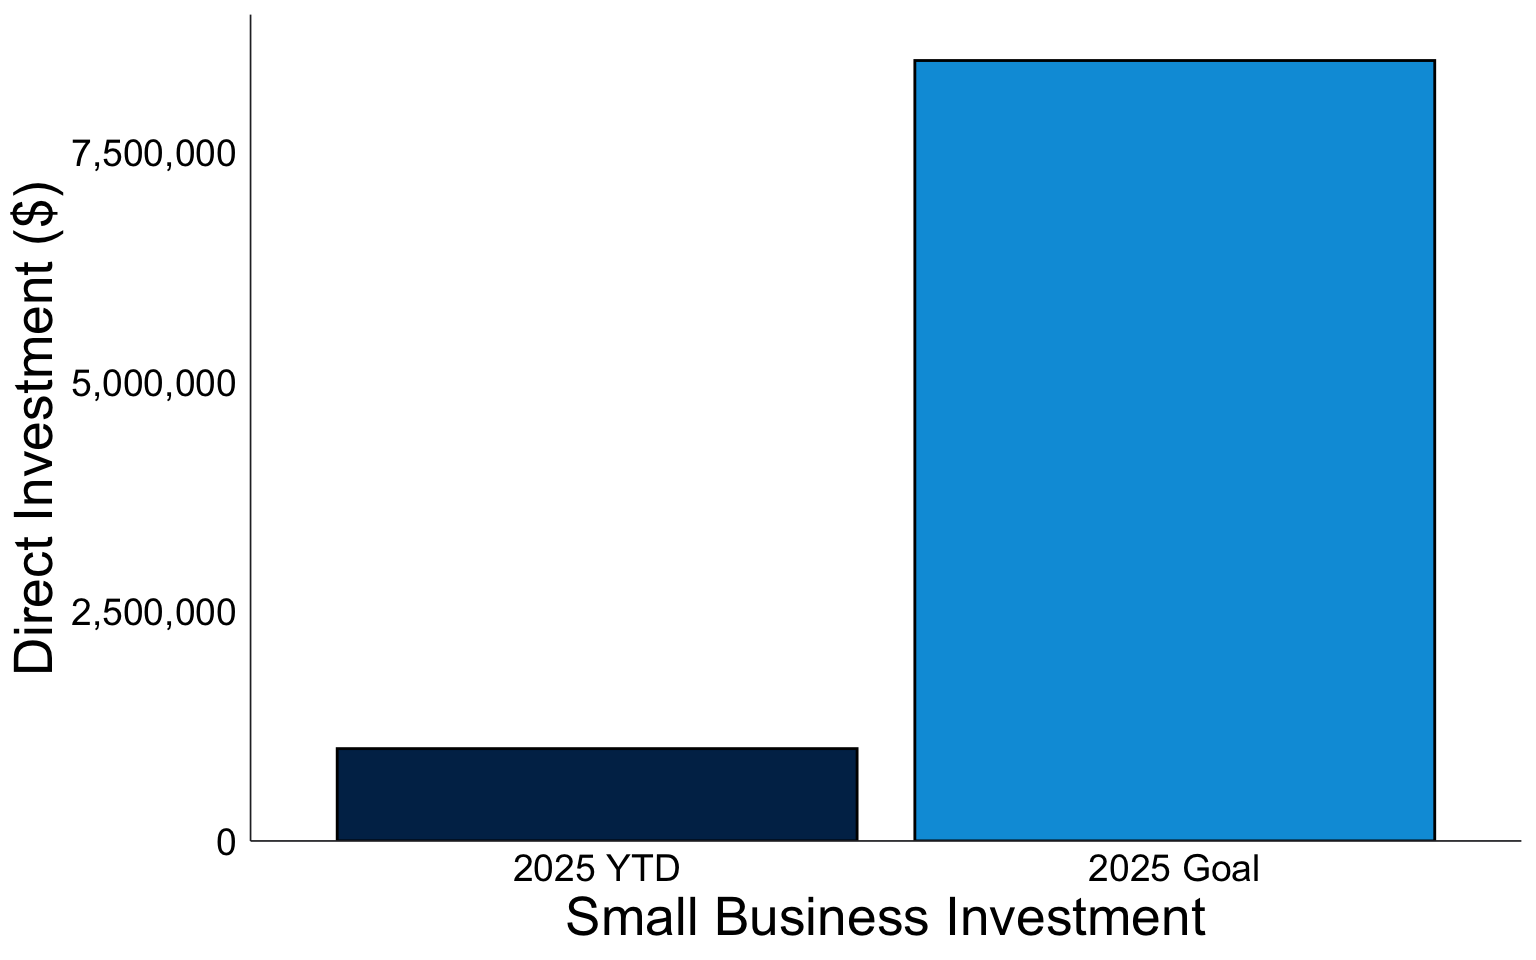
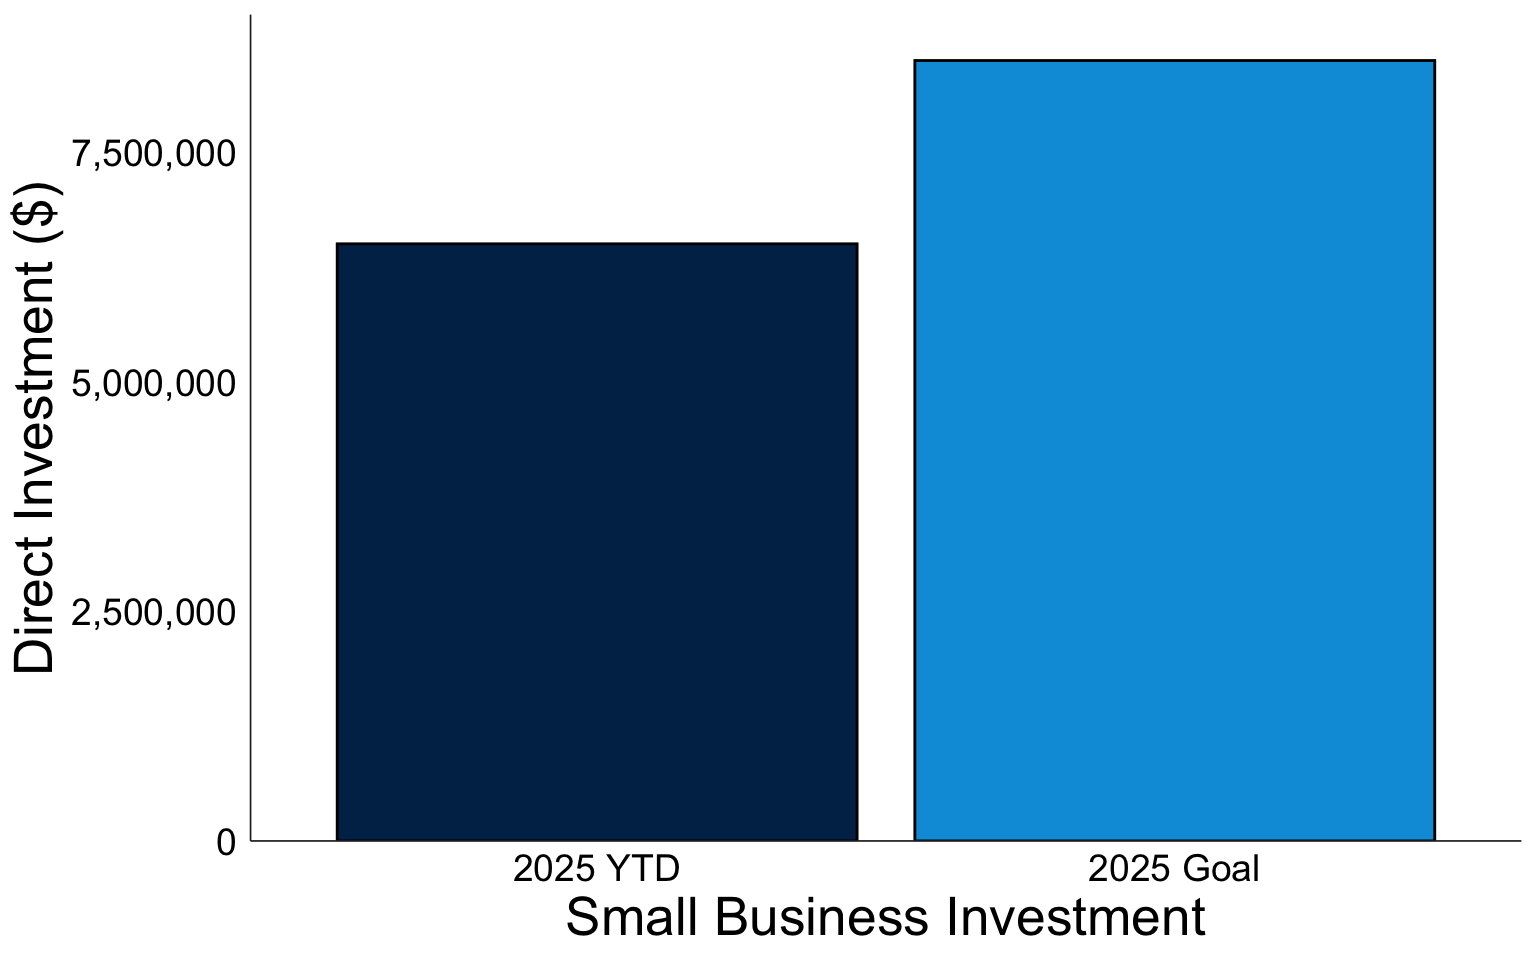
Built site for gh-pages

Changed region(s): [[0.2188, 0.25, 0.5625, 0.7812]]

diff --git a/index.html b/index.html
@@ -59,7 +59,7 @@ ul.task-list li input[type="checkbox"] {
 
       <div class="navbar-title">
         <div class="navbar-title-text"><a href="#">Invest Atlanta Impact Dashboard</a></div>
-        <div class="navbar-subtitle">Quarter 1 2025</div>
+        <div class="navbar-subtitle">2025 Year to Date</div>
         
       </div>
     </div>
@@ -84,7 +84,7 @@ grid-auto-rows: minmax(0, 1fr);">
 Total Capital Invested Across All Programs
 </p>
 <p class="value-box-value">
-$235 million
+$304 million
 </p>
 </div>
 </div>
@@ -100,7 +100,7 @@ $235 million
 Total Economic Impact
 </p>
 <p class="value-box-value">
-$209 million
+$282 million
 </p>
 </div>
 </div>
@@ -116,7 +116,7 @@ $209 million
 Total Capital Invested in Disinvested Neighborhoods
 </p>
 <p class="value-box-value">
-10%
+13.5%
 </p>
 </div>
 </div>
@@ -132,7 +132,7 @@ Total Capital Invested in Disinvested Neighborhoods
 Average Client Satisfaction Score (scale 1-5)
 </p>
 <p class="value-box-value">
-4.46
+4.53
 </p>
 </div>
 </div>
@@ -159,7 +159,7 @@ Total Capital Investment
 <div class="card-body html-fill-item html-fill-container">
 <div class="quarto-figure quarto-figure-center html-fill-item html-fill-container">
 <figure class="figure">
-<p><a href="https://iatl.maps.arcgis.com/apps/instant/basic/index.html?appid=112649da7b1d4fa58098c16cc402dcc4" target="_blank"><img src="wins_map_20250409.jpg" class="img-fluid figure-img" style="width:55.0%" alt="Click the image to explore our interactive online investment map"></a></p>
+<p><a href="https://iatl.maps.arcgis.com/apps/instant/basic/index.html?appid=112649da7b1d4fa58098c16cc402dcc4" target="_blank"><img src="wins_map_20250514.png" class="img-fluid figure-img" style="width:55.0%" alt="Click the image to explore our interactive online investment map"></a></p>
 <figcaption>Click the image to explore our interactive online investment map</figcaption>
 </figure>
 </div>
@@ -188,7 +188,7 @@ grid-auto-rows: minmax(0, 1fr);">
 Direct Investment
 </p>
 <p class="value-box-value">
-$1 Million
+$6.5 Million
 </p>
 </div>
 </div>
@@ -204,7 +204,7 @@ $1 Million
 Small Businesses Funded (Grants and Loans)
 </p>
 <p class="value-box-value">
-18
+25
 </p>
 </div>
 </div>
@@ -220,7 +220,7 @@ Small Businesses Funded (Grants and Loans)
 Small Businesses Receiving Business Consulting Services
 </p>
 <p class="value-box-value">
-246
+297
 </p>
 </div>
 </div>
@@ -236,7 +236,7 @@ Small Businesses Receiving Business Consulting Services
 Small Business Funded in Disinvested Neighborhoods
 </p>
 <p class="value-box-value">
-44%
+40%
 </p>
 </div>
 </div>
@@ -303,10 +303,10 @@ grid-auto-rows: minmax(0, 1fr);">
 <i class="bi bi-award-fill"></i></div>
 <div class="value-box-area">
 <p class="value-box-title">
-TAD Grants Closed
+NMTC Financing
 </p>
 <p class="value-box-value">
-2
+$8.5 Million
 </p>
 </div>
 </div>
@@ -319,10 +319,10 @@ TAD Grants Closed
 <i class="bi bi-piggy-bank"></i></div>
 <div class="value-box-area">
 <p class="value-box-title">
-Invest Atlanta Funding
+TAD Financing
 </p>
 <p class="value-box-value">
-$650,000
+$2.1 Million
 </p>
 </div>
 </div>
@@ -335,10 +335,10 @@ $650,000
 <i class="bi bi-door-open"></i></div>
 <div class="value-box-area">
 <p class="value-box-title">
-TAD Deal Leveraged Capital
+TAD Project Leveraged Capital
 </p>
 <p class="value-box-value">
-$57.6 Million
+$66.2 Million
 </p>
 </div>
 </div>
@@ -472,7 +472,7 @@ Affordable Units &lt;60% AMI
 Homeownership Incentives (Down Payment, Home Rehab)
 </p>
 <p class="value-box-value">
-64
+85
 </p>
 </div>
 </div>
@@ -542,7 +542,7 @@ grid-auto-rows: minmax(0, 1fr);">
 Total Capital Investment (Jobs &amp; Employment)
 </p>
 <p class="value-box-value">
-$50.3 Million
+$59.2 Million
 </p>
 </div>
 </div>
@@ -558,7 +558,7 @@ $50.3 Million
 Total Jobs Impact
 </p>
 <p class="value-box-value">
-257
+383
 </p>
 </div>
 </div>
@@ -574,7 +574,7 @@ Total Jobs Impact
 New Good Jobs Created
 </p>
 <p class="value-box-value">
-141
+179
 </p>
 </div>
 </div>
@@ -590,7 +590,7 @@ New Good Jobs Created
 Business Development Projects Closed
 </p>
 <p class="value-box-value">
-8
+13
 </p>
 </div>
 </div>
